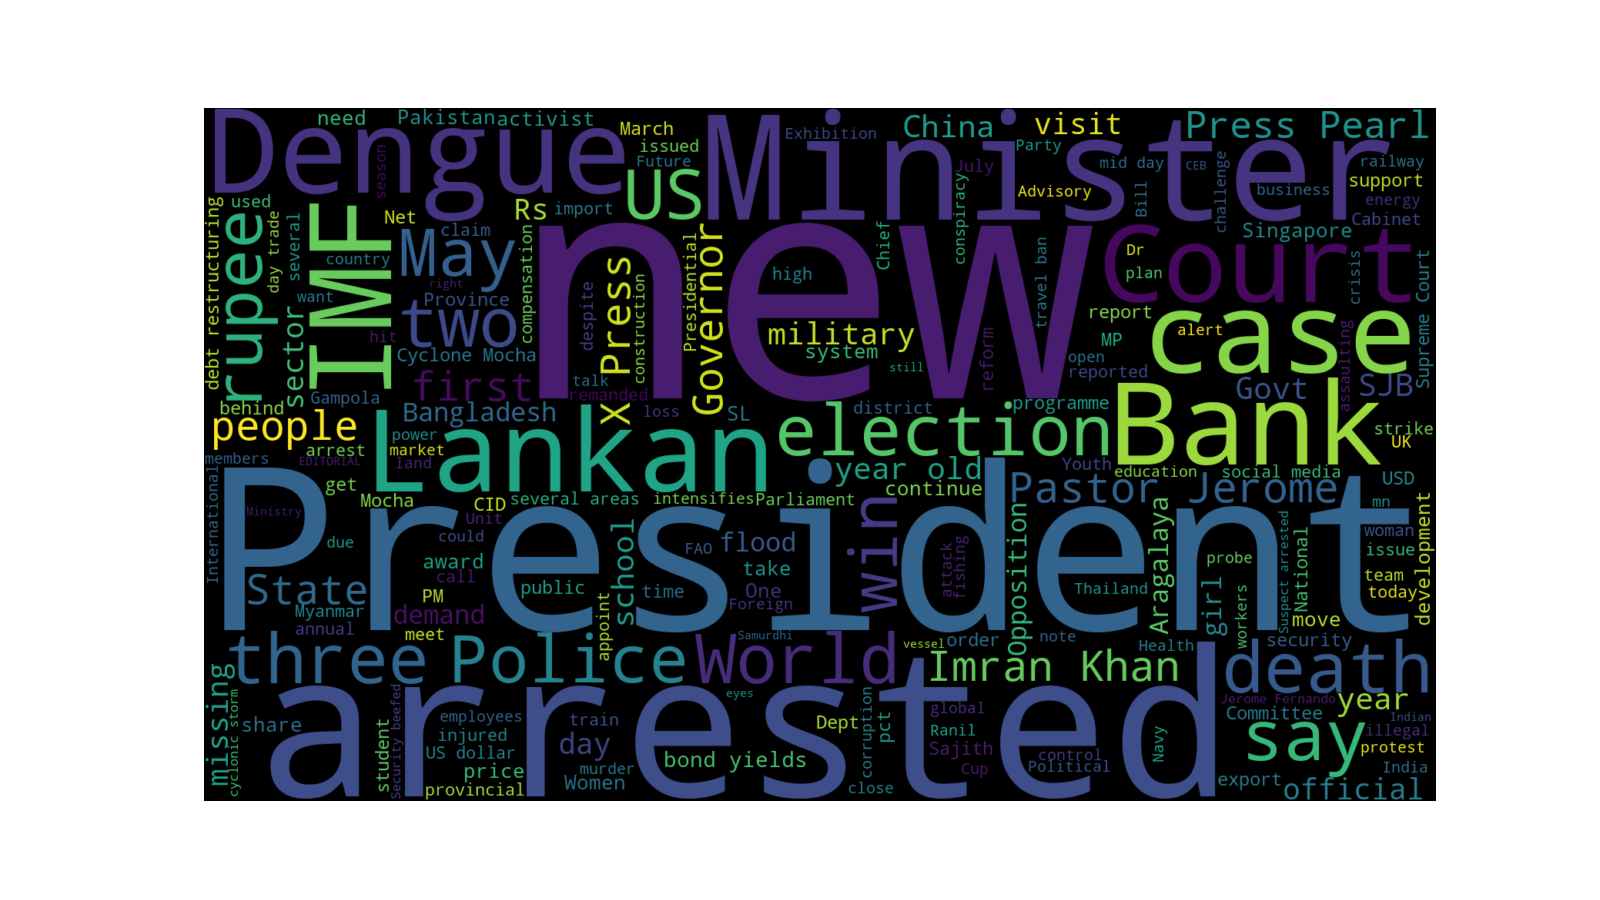
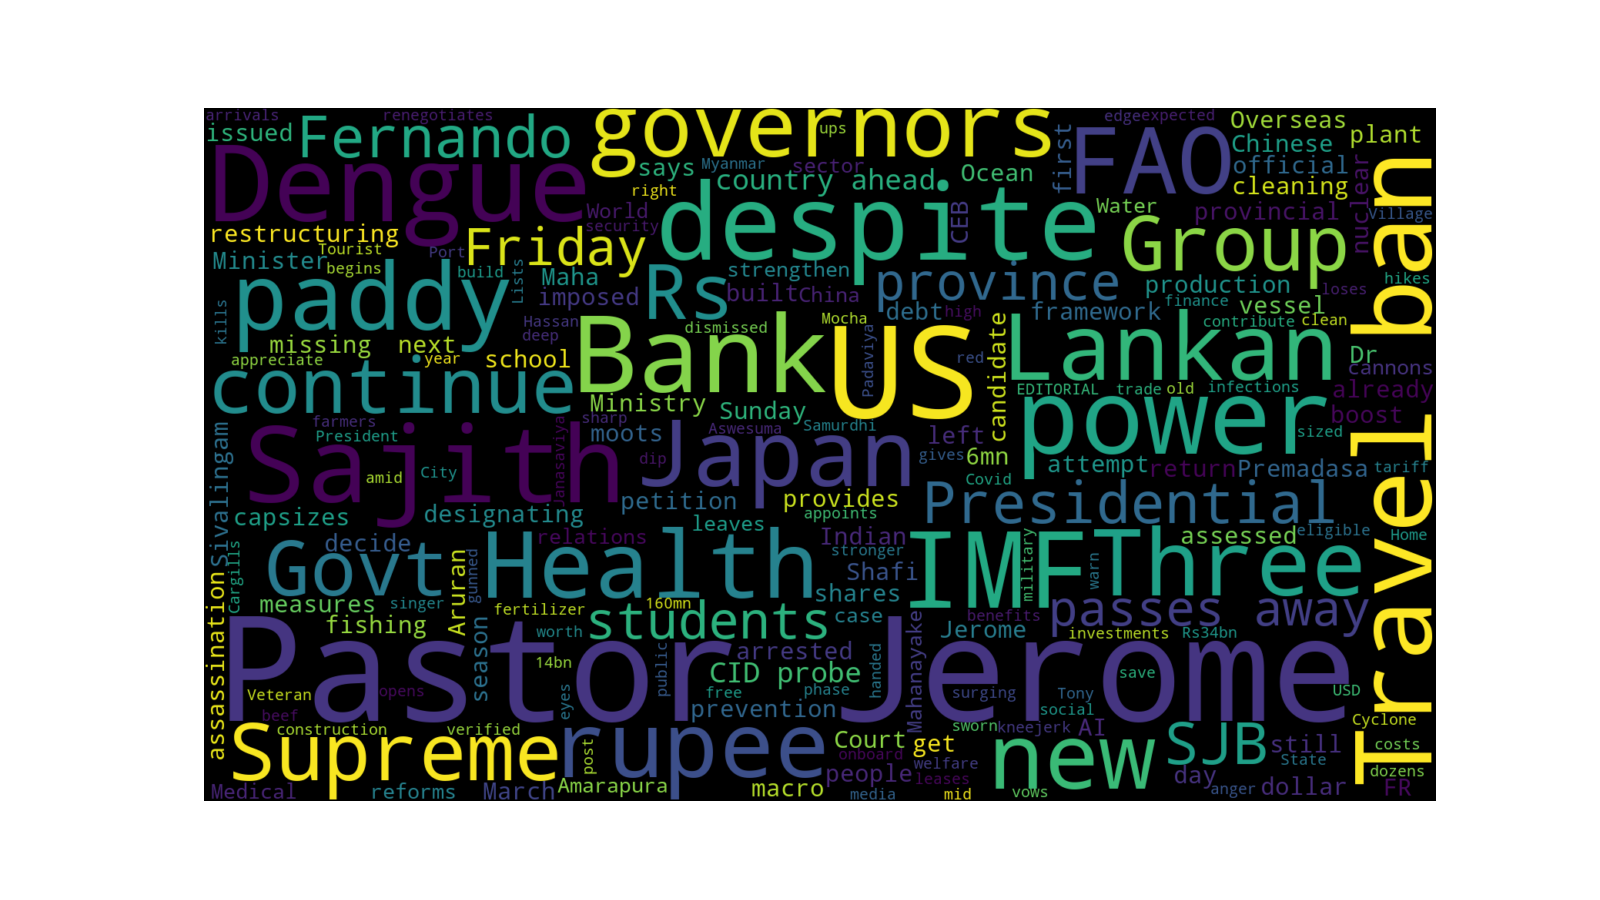
window = 1 day

diff --git a/workflows/build_wordcloud.py b/workflows/build_wordcloud.py
@@ -12,7 +12,7 @@ HEIGHT = int(WIDTH * 9 / 16)
 F_FIG = 100
 FIG_WIDTH, FIG_HEIGHT = WIDTH // F_FIG, HEIGHT // F_FIG
 
-DELTA_TIME_WINDOW = SECONDS_IN.DAY * 7
+DELTA_TIME_WINDOW = SECONDS_IN.DAY * 1
 
 log = Log('build_wordcloud')
 
